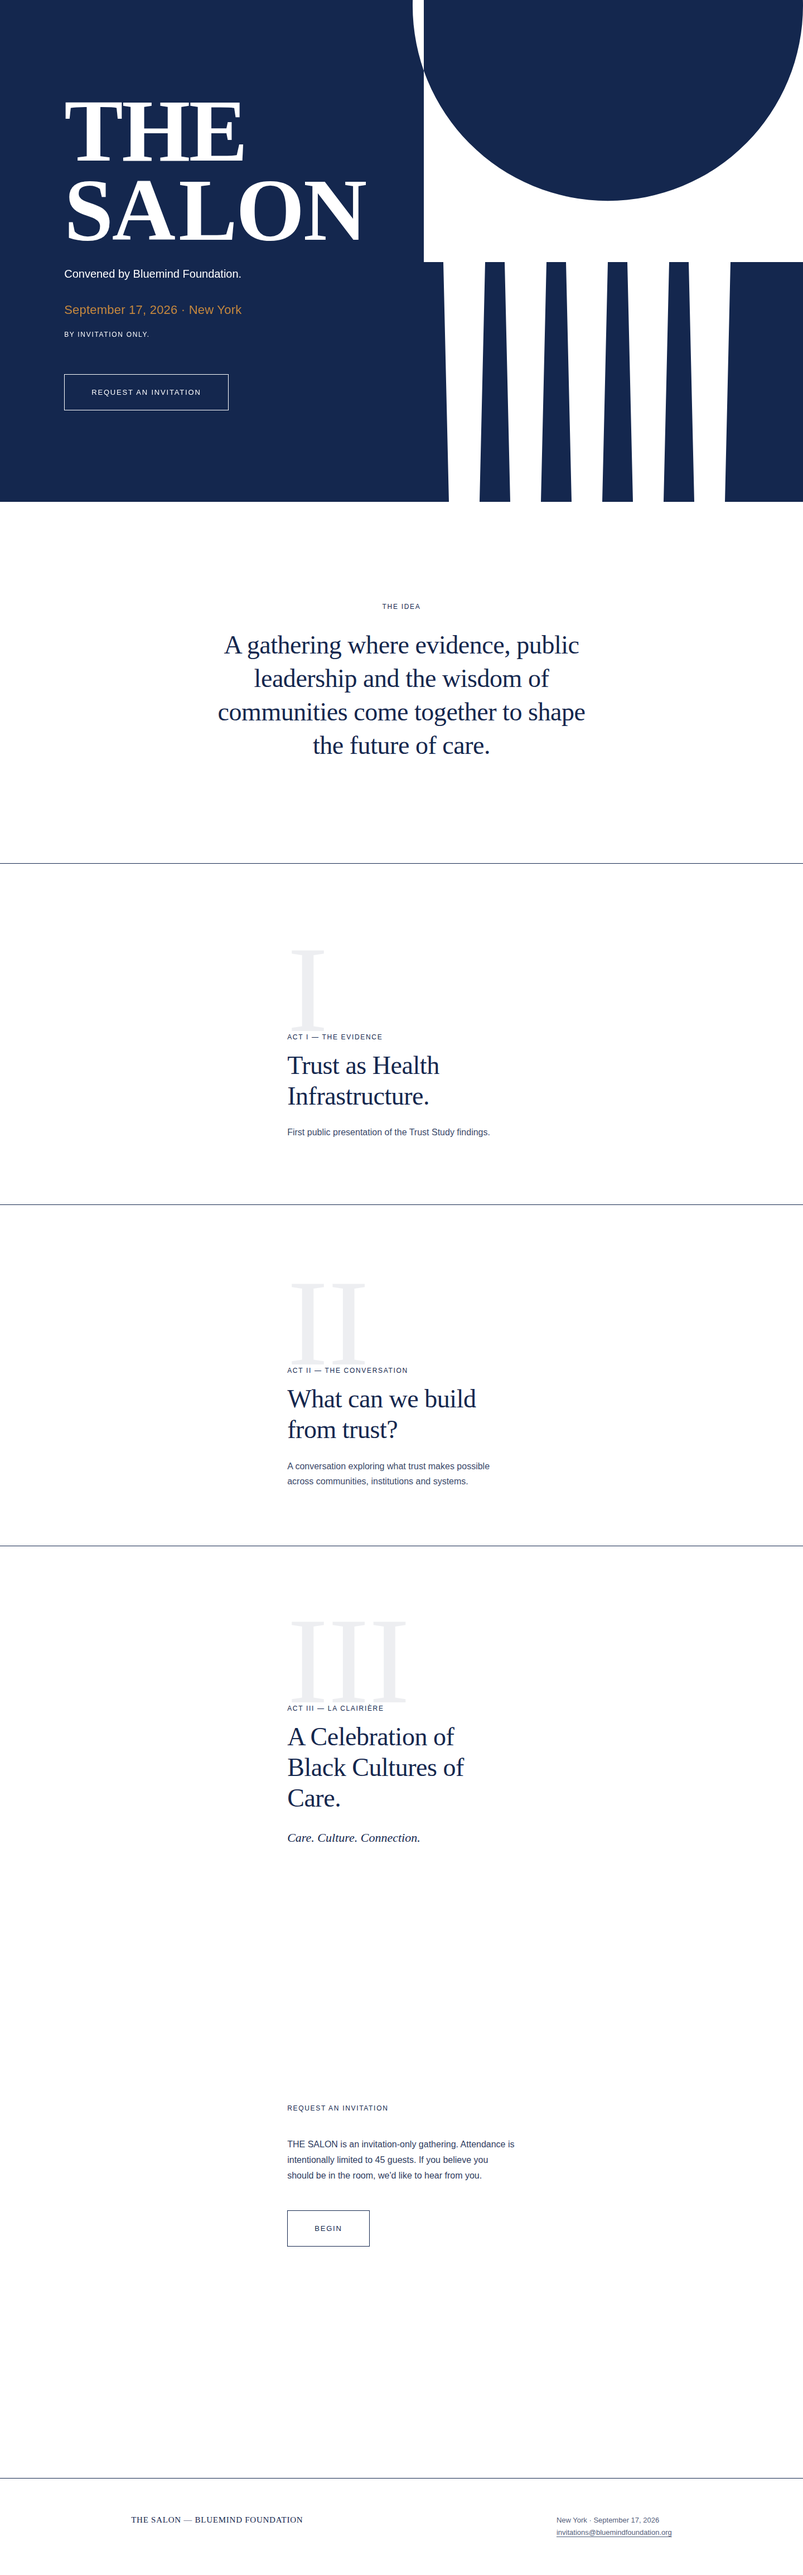
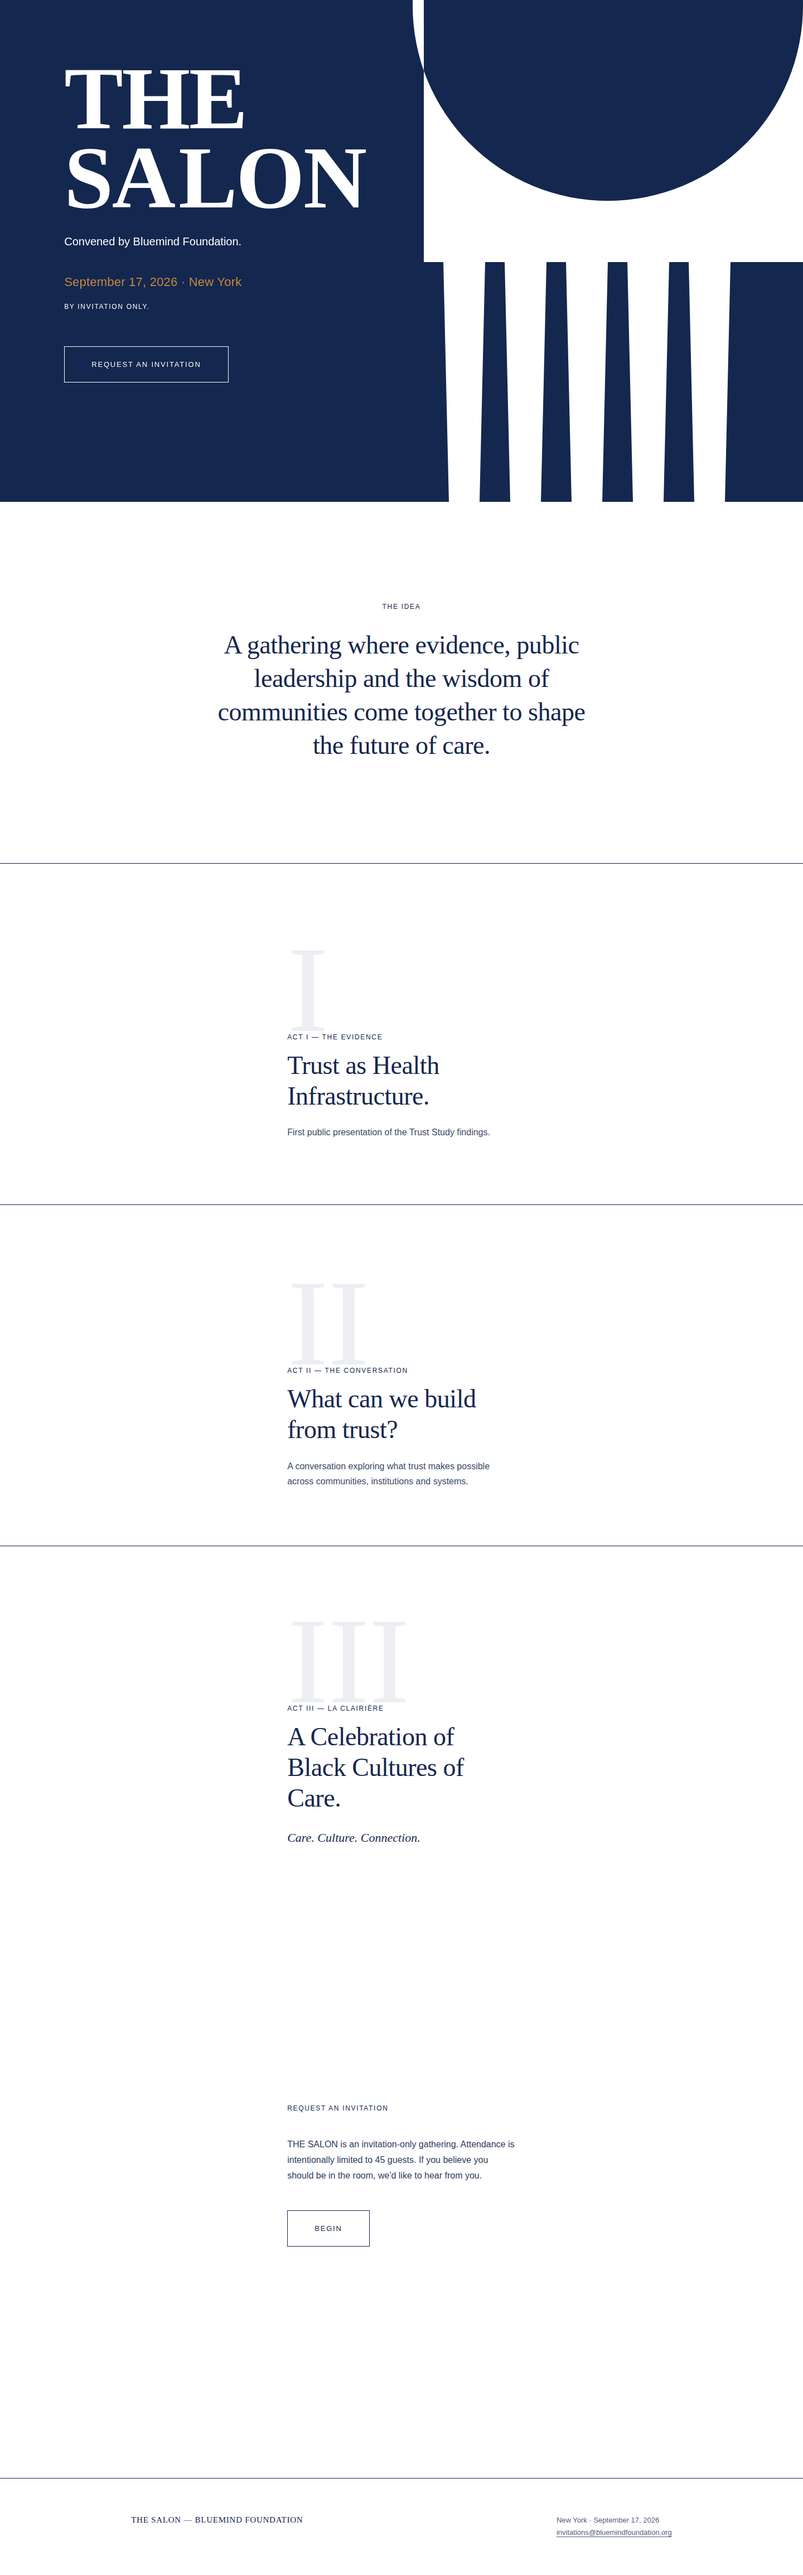
Hero polish: raise content block, add air between convened-by and date
Two review-requested tweaks: shift the whole hero text block up
slightly (it read as sitting too low), and widen the gap between
"Convened by Bluemind Foundation." and the date line so they don't
read as one run-on block.

Changed region(s): [[0.0625, 0.0, 0.4688, 0.1247]]

diff --git a/landing-page/styles.css b/landing-page/styles.css
@@ -190,6 +190,8 @@ section {
   display: flex;
   flex-direction: column;
   gap: var(--space-2);
+  /* Raise the whole block slightly — it read as sitting a touch too low. */
+  transform: translateY(-6vh);
 }
 
 .hero-v2-title {
@@ -228,7 +230,9 @@ section {
   font-family: var(--font-text);
   font-size: clamp(15px, 3.6vw, 22px);
   color: var(--color-ochre);
-  margin: var(--space-3) 0 0;
+  /* A bit more air from "Convened by…" above, so the two don't read as
+     one run-on block — not a big separation, just breathing room. */
+  margin: var(--space-4) 0 0;
   letter-spacing: 0.01em;
 }
 
